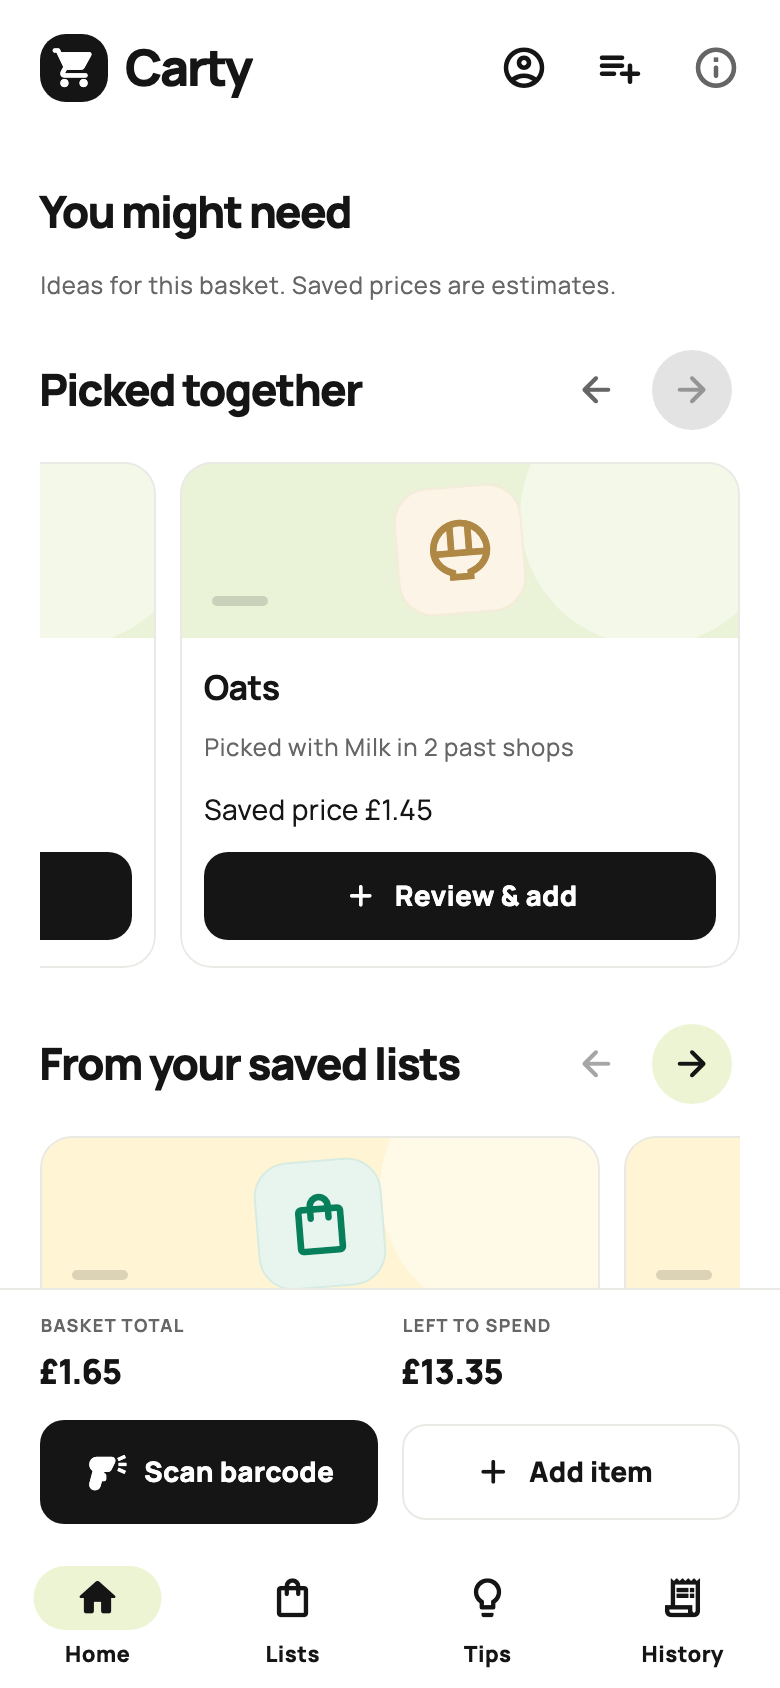
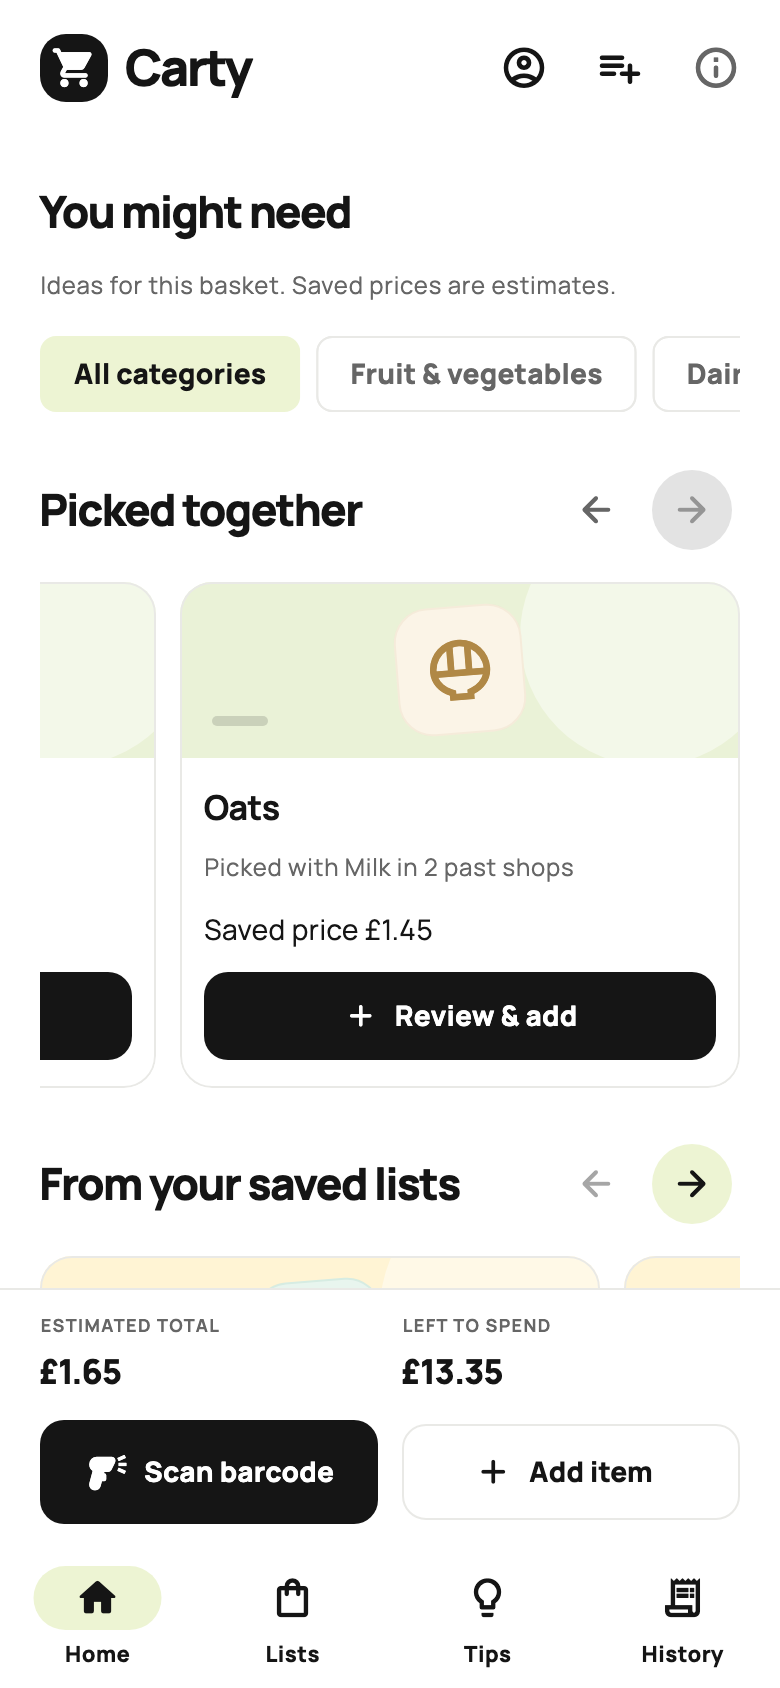
Document category browsing and refresh the real app previews

diff --git a/tool/render_recommendation_previews.dart b/tool/render_recommendation_previews.dart
@@ -58,7 +58,8 @@ void main() {
         find.byWidgetPredicate(
           (widget) =>
               widget is SingleChildScrollView &&
-              widget.scrollDirection == Axis.horizontal,
+              widget.scrollDirection == Axis.horizontal &&
+              widget.controller != null,
         ),
       )) {
         expect(row.controller!.offset, 0);
@@ -75,7 +76,8 @@ void main() {
         find.byWidgetPredicate(
           (widget) =>
               widget is SingleChildScrollView &&
-              widget.scrollDirection == Axis.horizontal,
+              widget.scrollDirection == Axis.horizontal &&
+              widget.controller != null,
         ),
       )) {
         expect(row.controller!.offset, 0);

diff --git a/tool/render_planning_previews.dart b/tool/render_planning_previews.dart
@@ -85,6 +85,16 @@ void main() {
 
     await showMode();
     await capture('home');
+    final basket = find.byKey(const Key('cart-open'));
+    await tester.ensureVisible(basket);
+    await tester.tap(basket);
+    await tester.pumpAndSettle();
+    final search = find.byKey(const Key('cart-search'));
+    await Scrollable.ensureVisible(tester.element(search));
+    await tester.pumpAndSettle();
+    await capture('categories');
+    await tester.pageBack();
+    await tester.pumpAndSettle();
     await store.setPlanning(false);
     await store.updateItem(
       store.items.first.copyWith(

diff --git a/docs/IMPLEMENTATION_PROGRESS.md b/docs/IMPLEMENTATION_PROGRESS.md
@@ -10,7 +10,7 @@ separate action when authorised.
   picked quantities/confirmed shelf prices; show estimated and picked totals,
   budget remaining, and complete only picked items. Verify migration, restart,
   saved-list continuation, scan merging, and immutable history.
-- [ ] Grocery categories: editable product classification, category filtering,
+- [x] Grocery categories: editable product classification, category filtering,
   grouped shopping lists, and horizontal product browsing. Verify manual
   overrides, uncategorised products, search combinations, and larger text.
 - [ ] Personal recommendations: favourites, hide suggestions, suggest less often,
@@ -36,8 +36,8 @@ integrations, not promises of this implementation.
 
 ## Current milestone
 
-Implementing grocery categories next. Planning and picking are now separate in
-Home, Basket, forms, saved-list continuation, and completed-trip history.
+Implementing recommendation controls and favourites next. Planning and picking
+are separate, and grocery categories can be edited, browsed, and filtered.
 
 ## Evidence
 
@@ -48,3 +48,8 @@ Home, Basket, forms, saved-list continuation, and completed-trip history.
   plans in History. All 224 tests pass; Flutter analysis is clean. Actual-widget
   phone previews are in `docs/previews/planning-*.png`; the renderer uses only
   synthetic in-memory records. Production device acceptance remains outstanding.
+- `f1caee7`: grocery category suggestions with manual overrides, persisted
+  categories across list/history/import flows, independent category filters,
+  grouped Basket sections, and category browsing for recommendations. All 230
+  tests pass; analysis is clean. Category and recommendation phone renders were
+  regenerated and reviewed, including the original next-card peek.

diff --git a/README.md b/README.md
@@ -80,6 +80,14 @@ and [the original plan in History](docs/previews/planning-history.png).
 
 ## Recommendations for your shop
 
+The item form includes **Category**. **Automatic** suggests a category from the
+name; choose a category yourself to override that hint. Unknown names stay in
+**Other**. Your choice survives edits, saved-list reuse, cloud saving, and History.
+Basket has a horizontal category filter and **Group by category**; category,
+name search, and **To pick** filters work together. Recommendations also have a
+horizontal category filter. These hints are local rules, not catalog metadata.
+See [grouped grocery browsing](docs/previews/planning-categories.png).
+
 **You might need** on Home groups recommendations into horizontal rows: **Picked together**, **Your regulars**, **From your saved lists**, **Pick up again**, **Pairing ideas**, and **Everyday essentials**. Only categories with suggestions appear, with up to six products in each row. Autocomplete finds a name you are looking for; recommendations help you consider what to add next.
 
 Swipe a category sideways or use its next/back buttons. Each row scrolls independently, with a glimpse of the next card on phone screens. Illustrated cards use Carty's City palette and original icon artwork; their review controls and explanations grow with larger text. Navigation buttons respect Reduce Motion. A product appears in one category rather than being repeated across rows.
